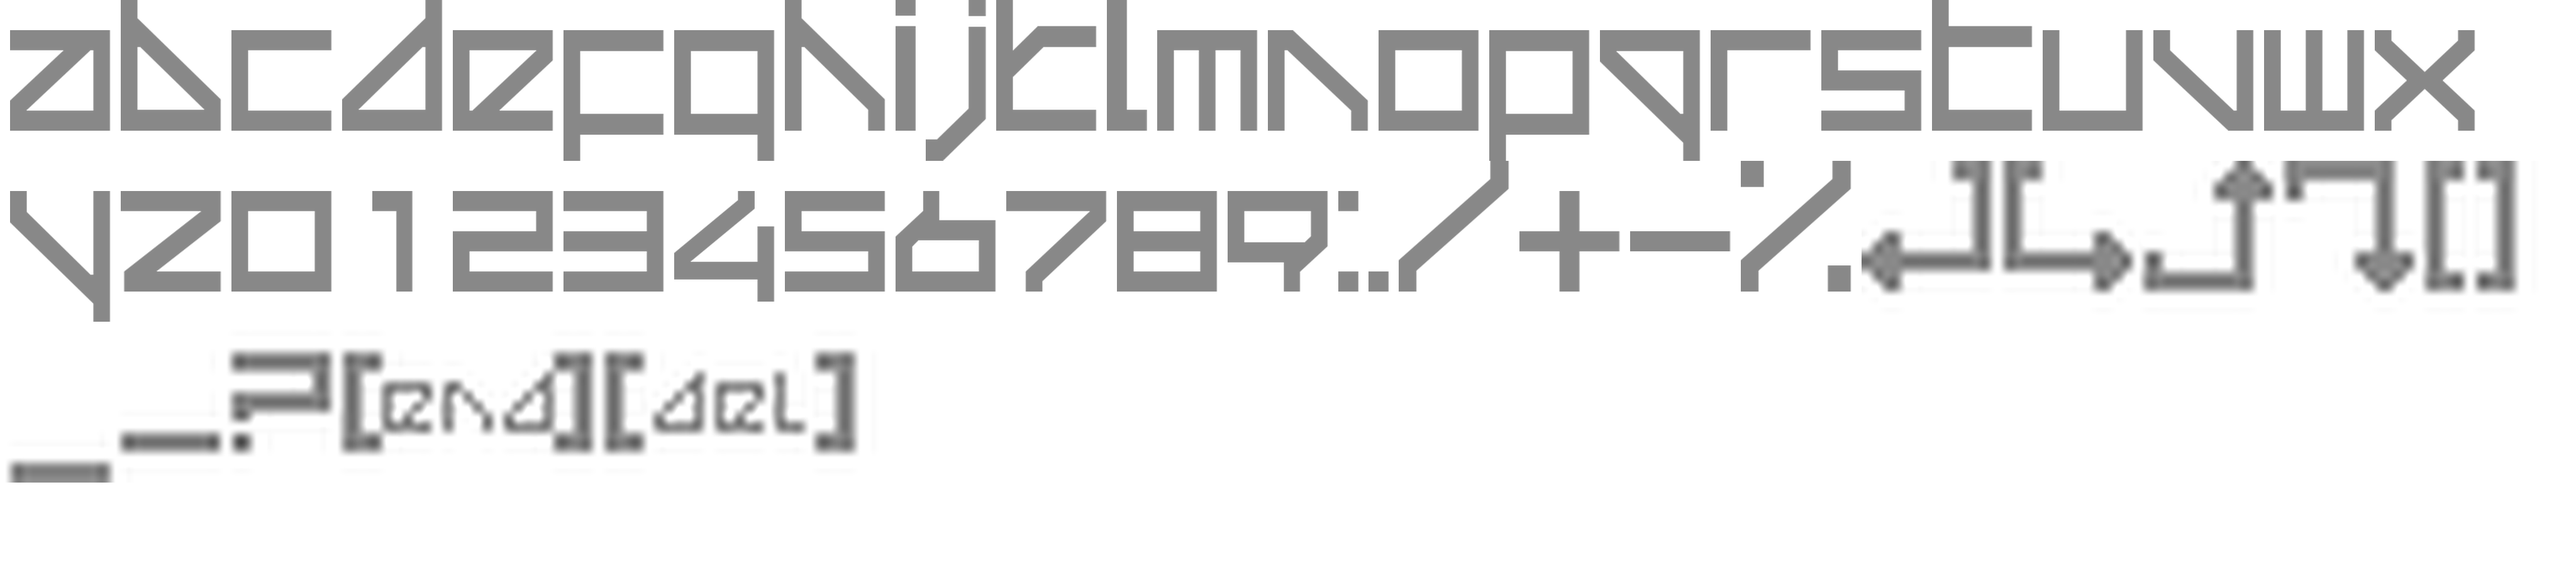
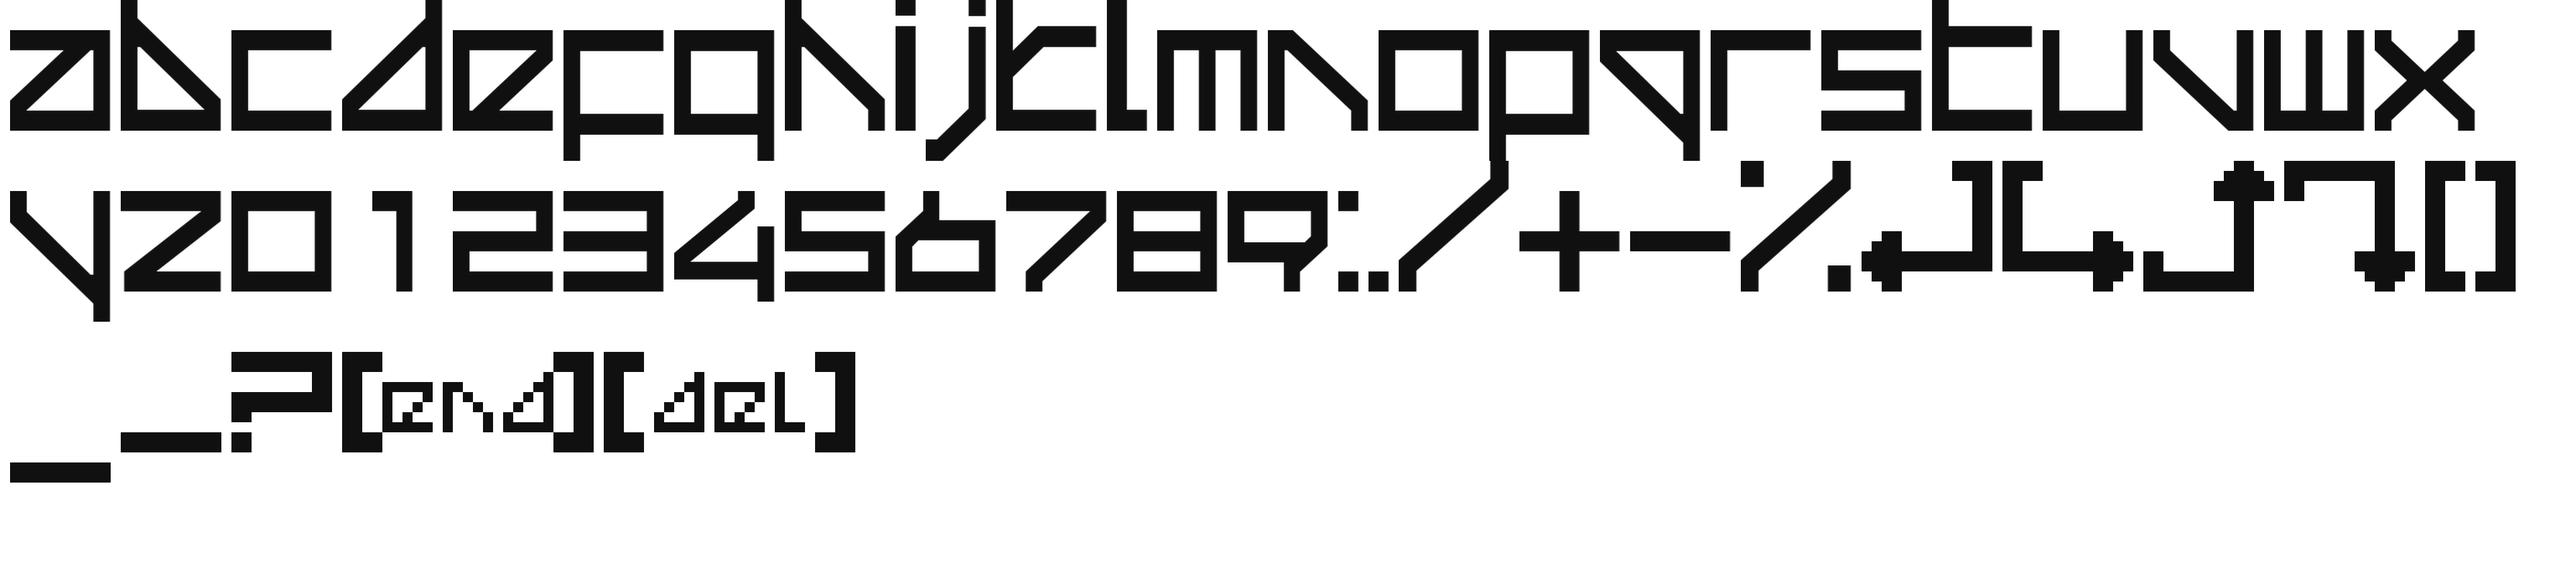
fonts: apply the palette alpha exactly once, and stop re-deriving it from our own output
The atlas generator applied each variant's CLUT alpha twice: build_font_atlas
baked colour[3] into the mask, then build_all multiplied by col[3]/255 again
when tinting. Worse, build_all sampled that colour from the pack file it was
about to OVERWRITE, so every regeneration read our own previous output and
halved it again -- 255 -> 127 -> 63 -> 15 -> 0.

Alpha is meaning here, not opacity: REPL_FS reads >191 as STP-clear and
anything less as STP-set, and <0.5/255 as the cutout hole. So the decay was not
a fading font, it was glyphs silently crossing into the semi-transparency blend
path (the 8ec51178 variant had already gone 255 -> 127), and eventually
vanishing entirely.

build_font_atlas now emits a pure coverage mask -- symbol bands lifted from the
source are normalised up from the CLUT's 127 so the whole output carries one
meaning -- and build_all applies the variant alpha once, from ink_colours.json.
That cache is a correctness requirement, not an optimisation: it is the only
record of the pristine colours once we have written over the pack.

Symbol bands upscale with NEAREST rather than LANCZOS, an exact 16x replica of
2-colour art that the mip chain box-averages straight back to the original;
rendered glyphs keep LANCZOS so the vector face's anti-aliasing survives.

Restored the ten font files from the pristine pack and regenerated: alphas
match the original (127, and 255 for 8ec51178), and a second run is
byte-identical, so the pipeline is now idempotent.

Changed region(s): [[0.0, 0.0, 1.0, 0.5625], [0.0, 0.5938, 0.3438, 0.875]]

diff --git a/tools/fonts/build_font_atlas.py b/tools/fonts/build_font_atlas.py
@@ -13,9 +13,15 @@ rendered ink box lands on the original's, multiplied by SCALE. Rows of custom
 symbols (arrows, brackets) have no counterpart in the typeface and are
 upscaled from the original pixels instead.
 
-Ink colour and alpha are copied from the source atlas, so the CLUT's
-semi-transparency (alpha 127 on these) survives; anti-aliased edges modulate
-that alpha by coverage rather than inventing an opaque edge.
+The output is a pure COVERAGE mask: RGB is the source ink colour but alpha runs
+the full 0-255, carrying only how much of the pixel the glyph covers. It is NOT
+the CLUT's alpha. build_all.py scales this coverage by each palette variant's
+own alpha exactly once, when it tints. Baking the CLUT alpha in here too would
+apply it twice — and since build_all re-derives the colour from the file it is
+about to overwrite, a second run would halve it again, and a third would erase
+the font. Alpha is meaning here, not just opacity (the shader reads >191 as
+STP-clear, less as STP-set), so a halved alpha silently flips glyphs into the
+semi-transparency blend path.
 """
 import json
 import sys
@@ -60,6 +66,20 @@ def glyph_ink_box(font, ch):
     return bb, pad
 
 
+def to_coverage(img, ink_alpha):
+    """Rescale a crop of the source so its ink reads as full coverage.
+
+    Source ink sits at the CLUT's alpha (127 on these atlases). Symbol bands are
+    lifted straight from those pixels, so without this they would land in the
+    output at 127 while the rendered glyphs land at 255 — a mask that is half
+    coverage and half CLUT alpha. Normalising here keeps the whole output on one
+    meaning, so build_all's single tint applies cleanly to all of it.
+    """
+    a = img.getchannel("A")
+    img.putalpha(a.point(lambda v: min(255, v * 255 // max(1, ink_alpha))))
+    return img
+
+
 def render_atlas(src_path, out_path, ttf_path, rows, band_h):
     src = Image.open(src_path).convert("RGBA")
     w, h = src.size
@@ -88,8 +108,8 @@ def render_atlas(src_path, out_path, ttf_path, rows, band_h):
         if chars is None:
             # Custom symbols: no counterpart in the typeface. Upscale the band.
             band = src.crop((0, y0, w, y1)).resize(
-                (w * SCALE, (y1 - y0) * SCALE), Image.LANCZOS)
-            out.alpha_composite(band, (0, y0 * SCALE))
+                (w * SCALE, (y1 - y0) * SCALE), Image.NEAREST)
+            out.alpha_composite(to_coverage(band, colour[3]), (0, y0 * SCALE))
             print("  band %d: %d symbol glyphs upscaled" % (bi, len(runs)))
             continue
         # A row may be part text, part symbols: the string covers the leading
@@ -103,8 +123,9 @@ def render_atlas(src_path, out_path, ttf_path, rows, band_h):
             tail_x0 = ink_box(px, *runs[len(chars)], y0, y1)[0]
             if tail_x0 is not None:
                 tail = src.crop((tail_x0, y0, w, y1)).resize(
-                    ((w - tail_x0) * SCALE, (y1 - y0) * SCALE), Image.LANCZOS)
-                out.alpha_composite(tail, (tail_x0 * SCALE, y0 * SCALE))
+                    ((w - tail_x0) * SCALE, (y1 - y0) * SCALE), Image.NEAREST)
+                out.alpha_composite(to_coverage(tail, colour[3]),
+                                    (tail_x0 * SCALE, y0 * SCALE))
             print("  band %d: %d trailing symbol glyphs upscaled"
                   % (bi, len(runs) - len(chars)))
             runs = runs[:len(chars)]
@@ -147,8 +168,7 @@ def render_atlas(src_path, out_path, ttf_path, rows, band_h):
             th = (ey - sy + 1) * SCALE
             g = g.resize((max(1, tw), max(1, th)), Image.LANCZOS)
             tinted = Image.new("RGBA", g.size, colour[:3] + (0,))
-            alpha = g.point(lambda v: v * colour[3] // 255)
-            tinted.putalpha(alpha)
+            tinted.putalpha(g)   # coverage, not CLUT alpha — see module docstring
             out.alpha_composite(tinted, (sx * SCALE, sy * SCALE))
 
     out.save(out_path)

diff --git a/tools/fonts/build_all.py b/tools/fonts/build_all.py
@@ -9,10 +9,19 @@ Each variant's colour is taken from the pack's own existing replacement for
 that key, which already has it right. That also means we only emit variants the
 pack ships, so we never invent a key the game will not ask for.
 
+Those colours are cached in ink_colours.json and reused on every later run.
+That cache is not an optimisation, it is a correctness requirement: we OVERWRITE
+the file we would otherwise read the colour back from, so a second run would
+sample our own output. Alpha is meaning, not opacity — the shader reads >191 as
+STP-clear and anything less as STP-set — so re-deriving would apply the variant
+alpha a second time, flip 255 to 127 (opaque glyphs into the semi-transparency
+blend path), and halve again on every run until the font disappeared.
+
 Usage:
     python build_all.py <dump-dir> <pack-dir> <ttf> [--dry-run]
 """
 import collections
+import json
 import os
 import subprocess
 import sys
@@ -53,9 +62,37 @@ def ink_colour(path):
     return counts.most_common(1)[0][0] if counts else None
 
 
+INK_CACHE = os.path.join(HERE, "ink_colours.json")
+
+
+def load_ink_cache():
+    if os.path.exists(INK_CACHE):
+        return {k: tuple(v) for k, v in json.load(open(INK_CACHE)).items()}
+    return {}
+
+
+def cached_ink(cache, name, path):
+    """This variant's CLUT colour, sampled from the pack once and remembered.
+
+    Sampling `path` again after we have written to it would read our own output;
+    see the module docstring for why that is destructive rather than merely
+    redundant.
+    """
+    if name not in cache:
+        col = ink_colour(path)
+        if col is None:
+            return None
+        cache[name] = col
+        json.dump({k: list(v) for k, v in cache.items()},
+                  open(INK_CACHE, "w"), indent=2, sort_keys=True)
+        print("   %s: ink %s recorded in ink_colours.json" % (name, col))
+    return cache[name]
+
+
 def main():
     dump_dir, pack_dir, ttf = sys.argv[1], sys.argv[2], sys.argv[3]
     dry = "--dry-run" in sys.argv
+    cache = load_ink_cache()
 
     for tex, cfg in ATLASES.items():
         # Any dumped palette variant will do as the geometry source: the glyph
@@ -68,7 +105,6 @@ def main():
 
         base = os.path.join(HERE, "_gen_%s.png" % tex)
         cfg_path = os.path.join(HERE, "_gen_%s.json" % tex)
-        import json
         json.dump({"src": src, "out": base, "ttf": ttf,
                    "band_h": cfg["band_h"], "rows": cfg["rows"]},
                   open(cfg_path, "w"))
@@ -84,13 +120,15 @@ def main():
                          if f.startswith(tex + "-") and f.endswith(".png"))
         for t in targets:
             tpath = os.path.join(pack_dir, t)
-            col = ink_colour(tpath)
+            col = cached_ink(cache, t, tpath)
             if not col:
                 print("   %s: no ink found, skipped" % t)
                 continue
             tinted = Image.new("RGBA", glyphs.size, col[:3] + (0,))
             # Scale coverage by this variant's own alpha, so the CLUT's
             # semi-transparency bit survives exactly as the dumper encoded it.
+            # `alpha` is pure coverage (build_font_atlas leaves it that way), so
+            # this is the ONE place the variant alpha is applied.
             tinted.putalpha(alpha.point(lambda v: v * col[3] // 255))
             if dry:
                 print("   would write %s  ink=%s" % (t, col))
